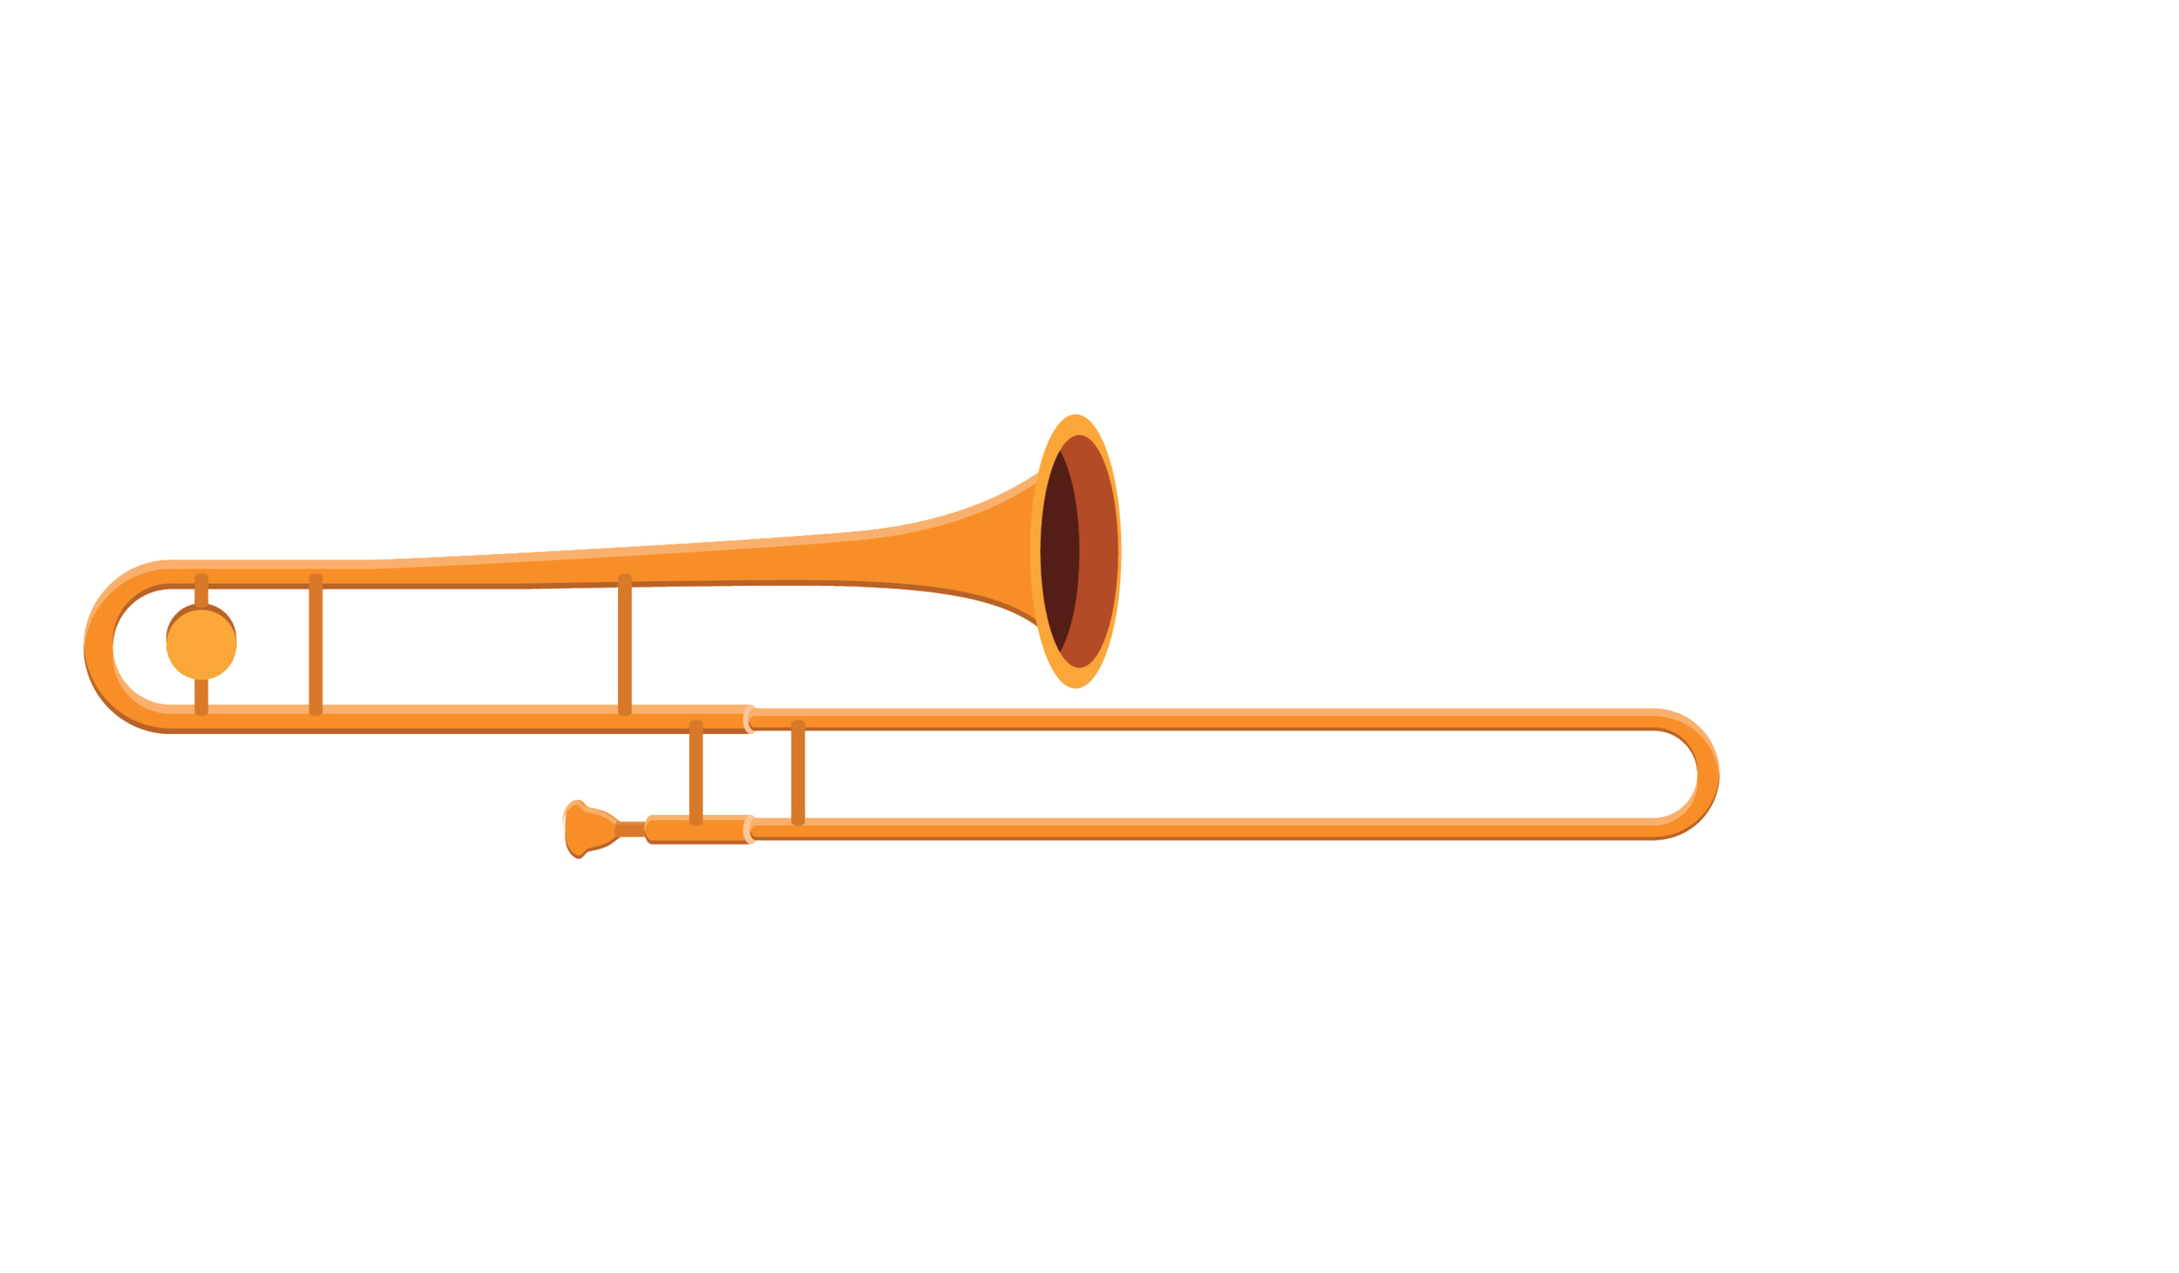
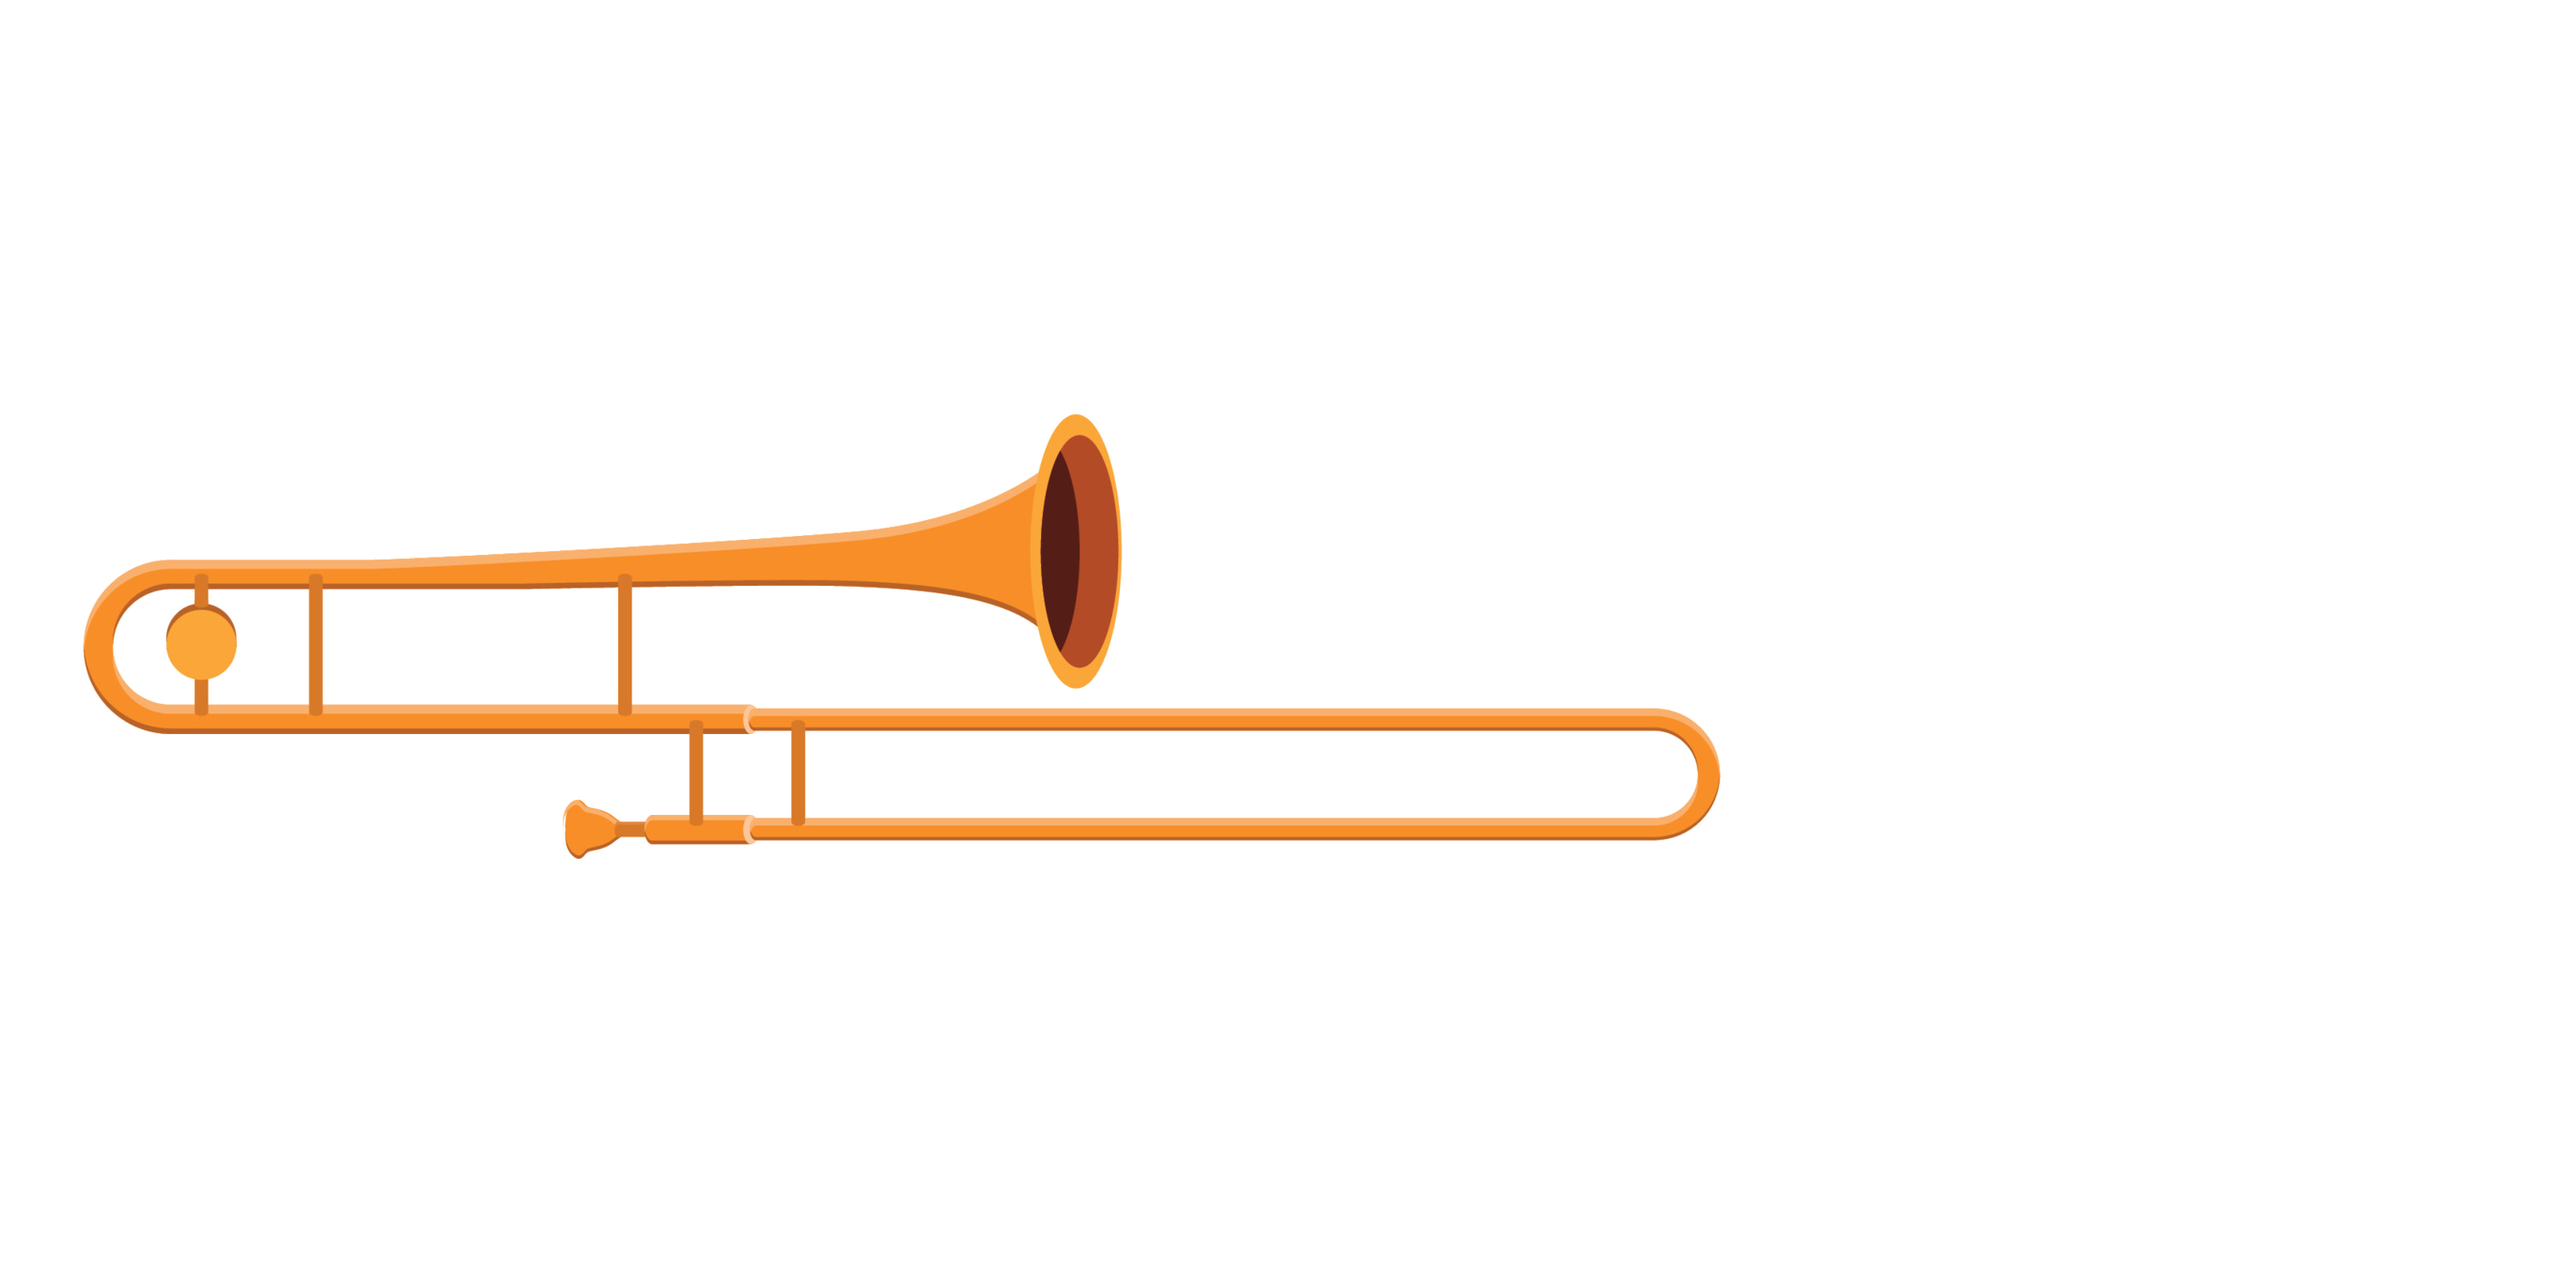
fix(trombone): real slide geometry — log-spaced positions (E7=782px) instead of linear 60px steps; add reproducible asset generator

Changed region(s): [[0.1552, 0.3097, 0.5276, 0.6814], [0.6517, 0.5575, 0.8069, 0.6814], [0.031, 0.4336, 0.1552, 0.5885]]

diff --git a/web/src/components/TromboneDisplay.tsx b/web/src/components/TromboneDisplay.tsx
@@ -4,7 +4,7 @@ import { useT } from '../i18n/I18nContext';
 export interface TromboneDisplayProps {
   /** Current slide position (1 = shortest, 7 = longest). Falls back to 1 when null. */
   position: PositionId | null;
-  /** Max display height in CSS pixels. The component preserves aspect ratio (~1.71:1). */
+  /** Max display height in CSS pixels. The component preserves aspect ratio (~2.02:1). */
   maxHeight?: number;
   /** Optional alt text override for the img. */
   alt?: string;
@@ -12,7 +12,7 @@ export interface TromboneDisplayProps {
 
 /**
  * Show the trombone diagram matching the current slide position.
- * All seven variants share an identical 2320×1356 crop, so swapping src never
+ * All seven variants share an identical 2742×1356 crop, so swapping src never
  * shifts layout. The images are wider than the trumpet's, so callers should
  * pass a smaller `maxHeight` to keep the stage column balanced.
  */

diff --git a/web/scripts/make_trombone_assets.py b/web/scripts/make_trombone_assets.py
@@ -1,0 +1,192 @@
+#!/usr/bin/env python3
+"""Generate the 7 trombone slide-position images for PitchQuest.
+
+Source asset : .tmp/trombone.webp (1920x1356 flat vector, white background).
+             (repo copy of the licensed source drawing; keep in sync)
+Output       : web/public/trombone/trombone-pos-{1..7}.webp (lossless WebP, alpha)
+
+PHYSICS (why the offsets are NOT linear):
+  A trombone slide extends logarithmically. For a tenor trombone with
+  effective tube length L ~= 111 in, the extension from position 1 needed to
+  sound n-1 semitones lower is
+      E_n = (L/2) * (2^((n-1)/12) - 1)
+  The artwork is drawn ~34 px per inch (bell rim = 270 px for ~8 in, bell
+  section = 1106 px for ~33 in), so K = L/2 * 34 = 1887 px and
+      E_n = round(K * (2^((n-1)/12) - 1))
+      pos 1..7 -> 0, 112, 231, 358, 492, 632, 782 px
+  (per-position deltas grow ~112 -> 150 px; the old linear 60 px/position
+  compressed positions 3-7 into what looked like position 3.)
+
+GEOMETRY / METHOD:
+  The movable OUTER SLIDE is the lower-band artwork at x >= CUT_X: upper
+  tube, slide brace (x 842-857), lower tube and the right U-crook (right
+  edge x = 1831 at position 1). The joint caps (light band, x 791-799) stay
+  with the BODY, together with the bell, top tube, left crook, mouthpiece
+  and body-side brace (x 733-748).
+
+  For position p the slide layer is alpha_composite'd at offset E_p, and the
+  two exposed inner-slide tubes are drawn across the widening gap by
+  horizontally replicating a reference column of each tube (preserves the
+  tubes' vertical shading: light top edge, highlight band, fill, dark bottom
+  edge). pos-1 is offset 0 with no bars => pixel-identical to the source.
+
+  Canvas: 1920 + 782 (max offset) + 40 margin = 2742 x 1356 for all seven
+  variants (pos-7 crook right edge 1831 + 782 = 2613 stays inside).
+"""
+import os
+
+from PIL import Image
+
+SRC = os.path.join(os.path.dirname(os.path.abspath(__file__)), "..", ".tmp", "trombone.webp")
+OUT_DIR = os.path.join(os.path.dirname(os.path.abspath(__file__)), "..", "web", "public", "trombone")
+
+SOFT_LO = 8        # L1 distance from background below which pixels are transparent
+SOFT_RAMP = 6      # alpha = (dist - SOFT_LO) * SOFT_RAMP, clamped to 255
+CUT_X = 805        # slide layer = artwork with x >= CUT_X and y >= BAND_TOP
+BAND_TOP = 745     # lower band top (bell rim AA ends y=734; tube AA starts y=754)
+REF_X = 1500       # column used to sample tube cross-sections for the bars
+STRIP_PAD = 4      # rows added above/below each measured tube run
+CROOK_RIGHT_X1 = 1831  # slide crook rightmost x at position 1 (in source px)
+K_PX = 1887        # L/2 (in) * 34 px/in: px of slide extension per 2^((n-1)/12)-1
+# E_n = round(K_PX * (2^((n-1)/12) - 1)); values as derived in the task brief
+OFFSETS = [0, 112, 231, 358, 492, 632, 782]
+RIGHT_PAD = 40     # extra canvas width beyond max shift
+N_POS = 7
+
+# ---------------------------------------------------------------- load + cut
+src = Image.open(SRC).convert("RGB")
+W, H = src.size
+spx = src.load()
+bg = spx[5, 5]
+print(f"source {W}x{H}, bg={bg}")
+
+def dist(c):
+    return abs(c[0] - bg[0]) + abs(c[1] - bg[1]) + abs(c[2] - bg[2])
+
+def soft_alpha(c):
+    """Alpha by color distance from the background: fully transparent for
+    near-background pixels, smooth ramp so anti-aliased edges don't leave
+    opaque near-white specks, fully opaque for all real artwork."""
+    d = dist(c)
+    if d <= SOFT_LO:
+        return 0
+    return min(255, (d - SOFT_LO) * SOFT_RAMP)
+
+body = Image.new("RGBA", (W, H), (0, 0, 0, 0))
+slide = Image.new("RGBA", (W, H), (0, 0, 0, 0))
+bpx, slpx = body.load(), slide.load()
+for y in range(H):
+    for x in range(W):
+        c = spx[x, y]
+        a = soft_alpha(c)
+        if a == 0:
+            continue
+        if x >= CUT_X and y >= BAND_TOP:
+            slpx[x, y] = (c + (a,))
+        else:
+            bpx[x, y] = (c + (a,))
+
+# sanity: slide layer must contain exactly the lower-band artwork
+slide_runs = {}
+for x in range(CUT_X, W):
+    ys = [y for y in range(BAND_TOP, H) if slpx[x, y][3] > 0]
+    if ys:
+        slide_runs[x] = (min(ys), max(ys))
+xs = sorted(slide_runs)
+print(f"slide layer: x {xs[0]}..{xs[-1]}, y {min(v[0] for v in slide_runs.values())}"
+      f"..{max(v[1] for v in slide_runs.values())}")
+assert xs[-1] == CROOK_RIGHT_X1, f"crook right edge {xs[-1]} != {CROOK_RIGHT_X1}"
+
+# ------------------------------------------------- measure tubes at REF_X
+def col_runs(x, img_px):
+    runs, cur = [], None
+    for y in range(BAND_TOP, H):
+        if img_px[x, y][3] > 0:
+            cur = [y, y] if cur is None else [cur[0], y]
+        elif cur:
+            runs.append(tuple(cur))
+            cur = None
+    if cur:
+        runs.append(tuple(cur))
+    return runs
+
+runs = col_runs(REF_X, slpx)
+assert len(runs) == 2, f"expected 2 tube runs at x={REF_X}, got {runs}"
+(yu0, yu1), (yl0, yl1) = runs
+print(f"tube y-ranges at x={REF_X}: upper {yu0}-{yu1}, lower {yl0}-{yl1}")
+
+# bar strips: tube run expanded by STRIP_PAD, pixels carry soft alpha so the
+# anti-aliased top/bottom edges blend into the transparent background
+def make_strip(y0, y1):
+    a, b = y0 - STRIP_PAD, y1 + STRIP_PAD + 1
+    strip = Image.new("RGBA", (1, b - a), (0, 0, 0, 0))
+    sp = strip.load()
+    for i, y in enumerate(range(a, b)):
+        c = spx[REF_X, y]
+        sp[0, i] = (c[0], c[1], c[2], soft_alpha(c))
+    return strip, a
+
+strip_u, su_top = make_strip(yu0, yu1)
+strip_l, sl_top = make_strip(yl0, yl1)
+
+# ------------------------------------------------------------------ compose
+BAR_X0 = CUT_X - 1           # bars tuck 1 px under the body tube end
+MAX_SHIFT = OFFSETS[-1]
+CANVAS_W = W + MAX_SHIFT + RIGHT_PAD
+assert CROOK_RIGHT_X1 + MAX_SHIFT <= CANVAS_W, "pos-7 crook overflows canvas"
+os.makedirs(OUT_DIR, exist_ok=True)
+
+for p in range(1, N_POS + 1):
+    s = OFFSETS[p - 1]
+    canvas = Image.new("RGBA", (CANVAS_W, H), (0, 0, 0, 0))
+    canvas.alpha_composite(body, (0, 0))
+    if s > 0:
+        bar_w = CUT_X + s - BAR_X0
+        for strip, top in ((strip_u, su_top), (strip_l, sl_top)):
+            bar = strip.resize((bar_w, strip.height), Image.NEAREST)
+            canvas.alpha_composite(bar, (BAR_X0, top))
+    canvas.alpha_composite(slide, (s, 0))
+    out = os.path.join(OUT_DIR, f"trombone-pos-{p}.webp")
+    canvas.save(out, format="WEBP", lossless=True)
+    kb = os.path.getsize(out) / 1024
+    print(f"pos-{p}: shift={s:3d}px  crook right edge={xs[-1] + s}  "
+          f"{CANVAS_W}x{H}  {kb:.0f} kB  -> {out}")
+
+# ------------------------------------------------------------------- checks
+pos1 = Image.open(os.path.join(OUT_DIR, "trombone-pos-1.webp")).convert("RGBA")
+ppx = pos1.load()
+bad_rgb = max_delta = 0
+for y in range(H):
+    for x in range(W):
+        r, g, b, a = ppx[x, y]
+        if a > 0 and (r, g, b) != spx[x, y]:
+            bad_rgb += 1
+        # compositing pos-1 over white must reproduce the source closely
+        comp = tuple((v * a + 255 * (255 - a)) // 255 for v in (r, g, b))
+        max_delta = max(max_delta, max(abs(comp[i] - spx[x, y][i]) for i in range(3)))
+print(f"pos-1: {bad_rgb} pixels with altered RGB (expect 0), "
+      f"max channel delta vs source when composited over white: {max_delta}")
+
+# per-variant: crook right edge must be 1831 + E_n (+-2), nothing overflows
+for p in range(1, N_POS + 1):
+    im = Image.open(os.path.join(OUT_DIR, f"trombone-pos-{p}.webp")).convert("RGBA")
+    ipx = im.load()
+    right = 0
+    for x in range(im.width - 1, -1, -1):
+        if any(ipx[x, y][3] > 0 for y in range(BAND_TOP, im.height)):
+            right = x
+            break
+    expect = CROOK_RIGHT_X1 + OFFSETS[p - 1]
+    ok = abs(right - expect) <= 2
+    bbox = im.getbbox()
+    print(f"pos-{p}: measured crook right x={right}, expected {expect} "
+          f"(delta {right - expect:+d}) {'OK' if ok else 'FAIL'}; "
+          f"bbox right {bbox[2]} <= canvas {im.width}: {bbox[2] <= im.width}")
+    assert ok and bbox[2] <= im.width
+
+# no opaque near-background specks anywhere in the widest variant
+pos7 = Image.open(os.path.join(OUT_DIR, "trombone-pos-7.webp")).convert("RGBA")
+specks = sum(1 for q in pos7.getdata() if q[3] == 255 and dist(q[:3]) < 40)
+print(f"pos-7 opaque near-background (dist<40) pixels: {specks} (expect 0)")
+assert specks == 0
+print("DONE")
